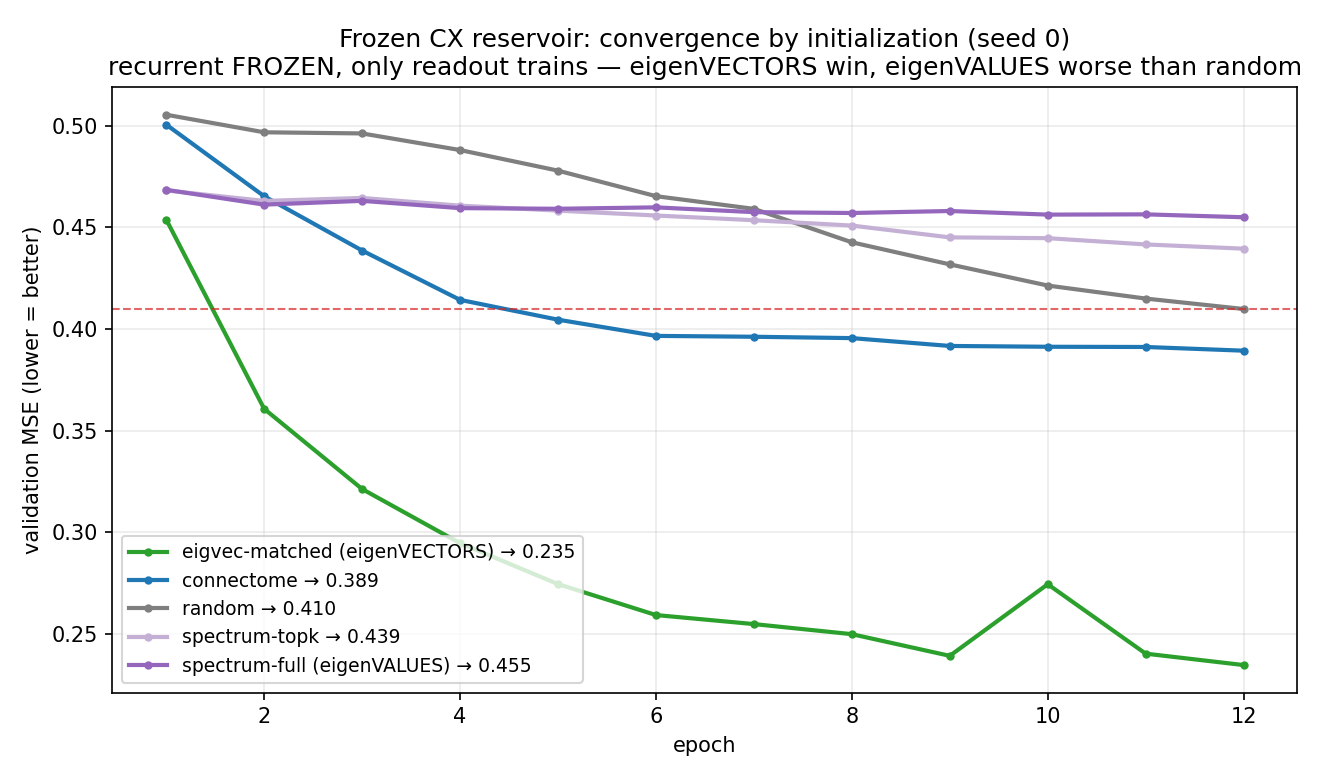
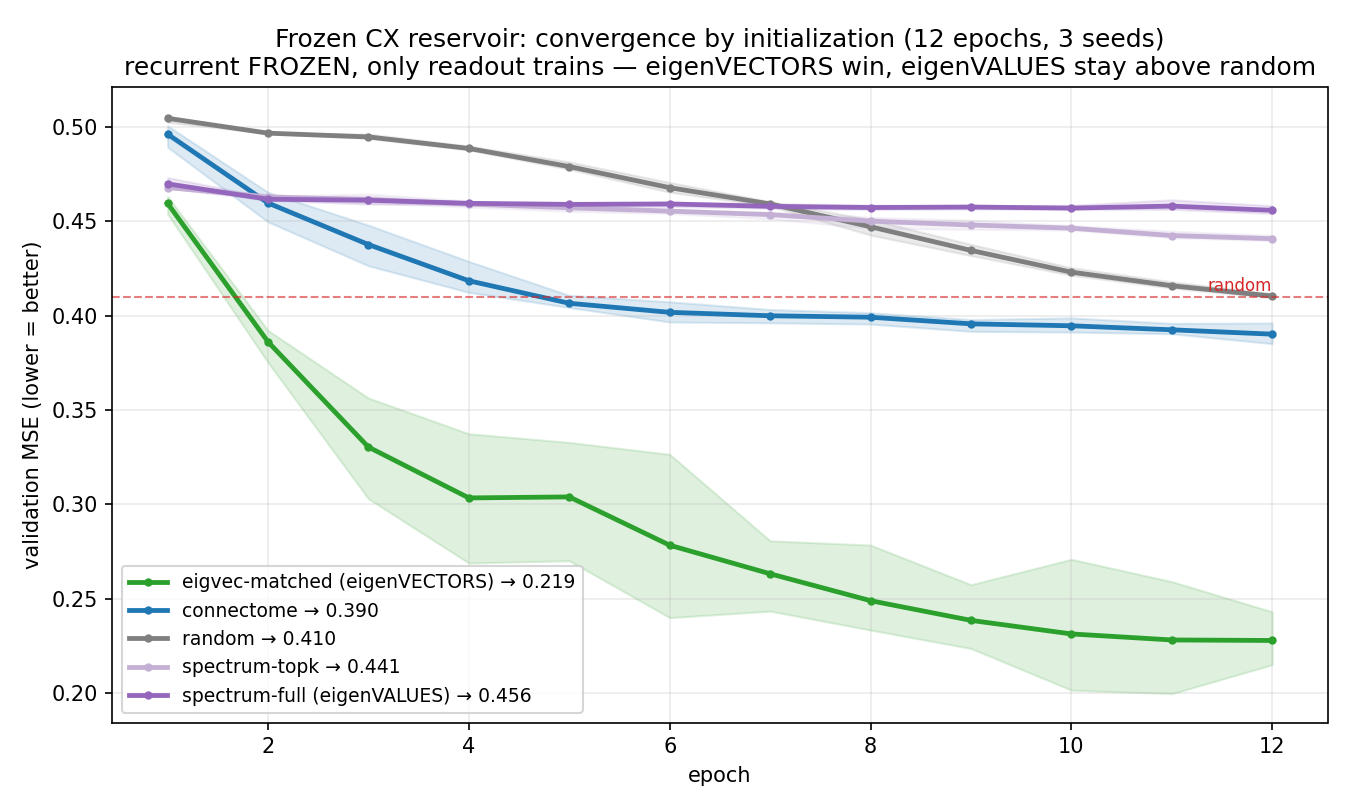
Frozen curves: upgrade seed-0 -> 3-seed with error bands
Replace the seed-0 frozen training-curve figure (parsed from logs) with a clean 3-seed version
(error bands) from a dedicated re-run on server 2. Same story, now with seed spread: eigvec-matched
plunges to 0.22, connectome settles just under random (0.39), eigenvalue controls stay flat above
random (0.45). Finals match the 3-seed headline numbers in the table.

Changed region(s): [[0.0, 0.0308, 0.9939, 0.9538], [0.497, 0.9231, 0.5591, 0.9846]]

diff --git a/docs/results/cx_eigval_vs_eigvec/README.md b/docs/results/cx_eigval_vs_eigvec/README.md
@@ -45,12 +45,11 @@ Each model at its **own** best hyperparameters (val-MSE, **lower = better**; fro
 
 ## Training curves (frozen reservoir: only the readout trains)
 ![training curves](training_curves.png)
-*Validation MSE vs epoch, each model at its best LR (seed 0). The split is immediate and stark:
-**eigvec-matched (eigenVECTORS) drops fastest and far lowest** (→0.235), the **connectome** settles
-just under random (→0.389), and the **eigenvalue controls (spectrum-full/topk) barely move and stay
-*above* random** the whole way (→0.45) — matching the connectome's spectrum buys nothing in a frozen
-reservoir. (Seed-0 curves from the original run's logs; the headline numbers in the table above are
-the 3-seed best-HP means.)*
+*Validation MSE vs epoch, each model at its best LR (**3 seeds; shaded band = seed min–max**). The
+split is immediate and stark: **eigvec-matched (eigenVECTORS) drops fastest and far lowest** (→0.22),
+the **connectome** settles just under random (→0.39), and the **eigenvalue controls
+(spectrum-full/topk) barely move and stay *above* random** the whole way (→0.45) — matching the
+connectome's spectrum buys nothing in a frozen reservoir.*
 
 ## Interpretation
 - **Eigenvectors carry the advantage, decisively.** Density-controlled (both dense): eigenvectors
